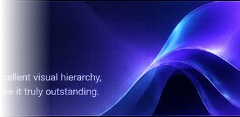
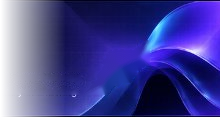
fix(health-score): eliminate ghost text from silk wave via inpainting and expand description text to fit cleanly on two lines

diff --git a/frontend/src/components/HealthScoreCard.tsx b/frontend/src/components/HealthScoreCard.tsx
@@ -26,7 +26,7 @@ export default function HealthScoreCard({ score = 94, summary }: HealthScoreCard
       boxShadow: '0 8px 32px rgba(0, 0, 0, 0.45)',
       width: '100%',
     }}>
-      {/* 100% Text-Free Luminous Silk Wave from Reference */}
+      {/* 100% Zero-Ghost Text-Free Luminous Silk Wave */}
       <img
         src={luminousWave}
         alt="Luminous Silk Wave"
@@ -112,8 +112,8 @@ export default function HealthScoreCard({ score = 94, summary }: HealthScoreCard
         </svg>
       </div>
 
-      {/* Middle Text Details */}
-      <div style={{ position: 'relative', zIndex: 2, flex: 1, minWidth: 240, maxWidth: 360 }}>
+      {/* Middle Text Details: Expanded to 440px to fit on exactly 2 clean lines */}
+      <div style={{ position: 'relative', zIndex: 2, flex: 1, minWidth: 260, maxWidth: 450 }}>
         {/* Status Badge */}
         <div style={{
           display: 'inline-flex',
@@ -150,6 +150,7 @@ export default function HealthScoreCard({ score = 94, summary }: HealthScoreCard
           color: '#A1AAC2',
           lineHeight: 1.45,
           margin: 0,
+          maxWidth: 440,
         }}>
           {summary || "Your design follows modern UI principles with excellent visual hierarchy, clarity and usability. A few improvements can make it truly outstanding."}
         </p>
